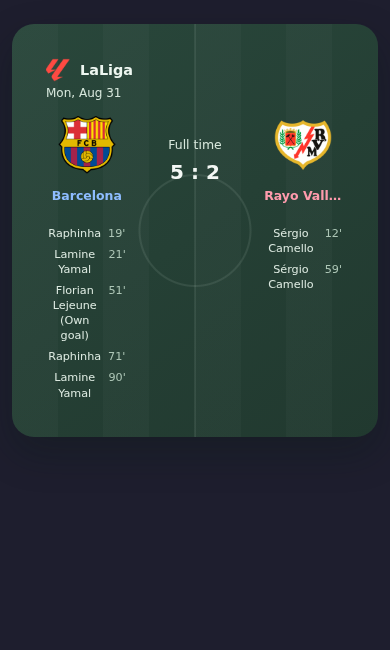
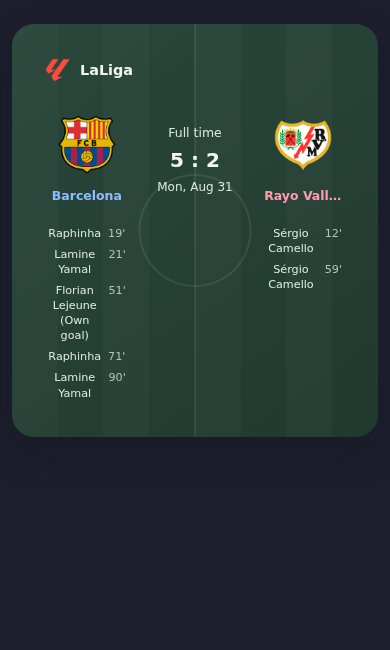
fix(onefootball): place match date below score

Changed region(s): [[0.4, 0.1846, 0.5846, 0.3077], [0.1231, 0.1231, 0.3077, 0.1538]]

diff --git a/src/react/components/previews/OneFootballMatch.tsx b/src/react/components/previews/OneFootballMatch.tsx
@@ -34,19 +34,10 @@ export function OneFootballMatch({
       rel="noreferrer"
       aria-label={externalLinkHint ? `${label}, ${externalLinkHint}` : label}
     >
-      {snapshot.competition || snapshot.competitionLogo || matchDate ? (
-        <span className="reader-card__onefootball-meta">
-          {snapshot.competition || snapshot.competitionLogo ? (
-            <span className="reader-card__onefootball-competition">
-              <MatchLogo key={snapshot.competitionLogo ?? 'competition'} src={snapshot.competitionLogo} size="competition" />
-              {snapshot.competition ? <strong>{snapshot.competition}</strong> : null}
-            </span>
-          ) : null}
-          {matchDate ? (
-            <time className="reader-card__onefootball-date" dateTime={snapshot.startsAt ?? undefined}>
-              {matchDate}
-            </time>
-          ) : null}
+      {snapshot.competition || snapshot.competitionLogo ? (
+        <span className="reader-card__onefootball-competition">
+          <MatchLogo key={snapshot.competitionLogo ?? 'competition'} src={snapshot.competitionLogo} size="competition" />
+          {snapshot.competition ? <strong>{snapshot.competition}</strong> : null}
         </span>
       ) : null}
 
@@ -55,6 +46,11 @@ export function OneFootballMatch({
         <span className={`reader-card__onefootball-result reader-card__onefootball-result--${snapshot.normalizedStatus ?? 'unknown'}`}>
           {center.top ? <span>{center.top}</span> : null}
           <strong>{center.main}</strong>
+          {matchDate ? (
+            <time className="reader-card__onefootball-date" dateTime={snapshot.startsAt ?? undefined}>
+              {matchDate}
+            </time>
+          ) : null}
         </span>
         <MatchLogo key={awayTeam.logo ?? 'away'} src={awayTeam.logo} size="team" side="away" />
         <strong className="reader-card__onefootball-team-name reader-card__onefootball-team-name--home">

diff --git a/src/styles/reader/onefootball.css b/src/styles/reader/onefootball.css
@@ -52,23 +52,11 @@
   border-radius: 16px;
 }
 
-.reader-card__onefootball-meta {
+.reader-card__onefootball-competition {
   position: absolute;
   inset: clamp(18px, 3cqw, 28px) auto auto clamp(18px, 3cqw, 28px);
-  display: grid;
-  max-width: calc(100% - clamp(36px, 6cqw, 56px));
-  min-width: 0;
-  gap: 4px;
-}
-
-.reader-card__onefootball-date {
-  color: #d7e7dc;
-  font-size: clamp(.75rem, 2.4cqw, .95rem);
-  line-height: 1.25;
-}
-
-.reader-card__onefootball-competition {
   display: flex;
+  max-width: calc(100% - clamp(36px, 6cqw, 56px));
   min-width: 0;
   align-items: center;
   gap: 10px;
@@ -163,6 +151,13 @@
   line-height: 1.05;
   text-overflow: ellipsis;
   white-space: nowrap;
+}
+
+.reader-card__onefootball-date {
+  max-width: 100%;
+  color: #d7e7dc;
+  font-size: clamp(.75rem, 2.4cqw, .95rem);
+  line-height: 1.25;
 }
 
 .reader-card__onefootball-result--scheduled strong,
